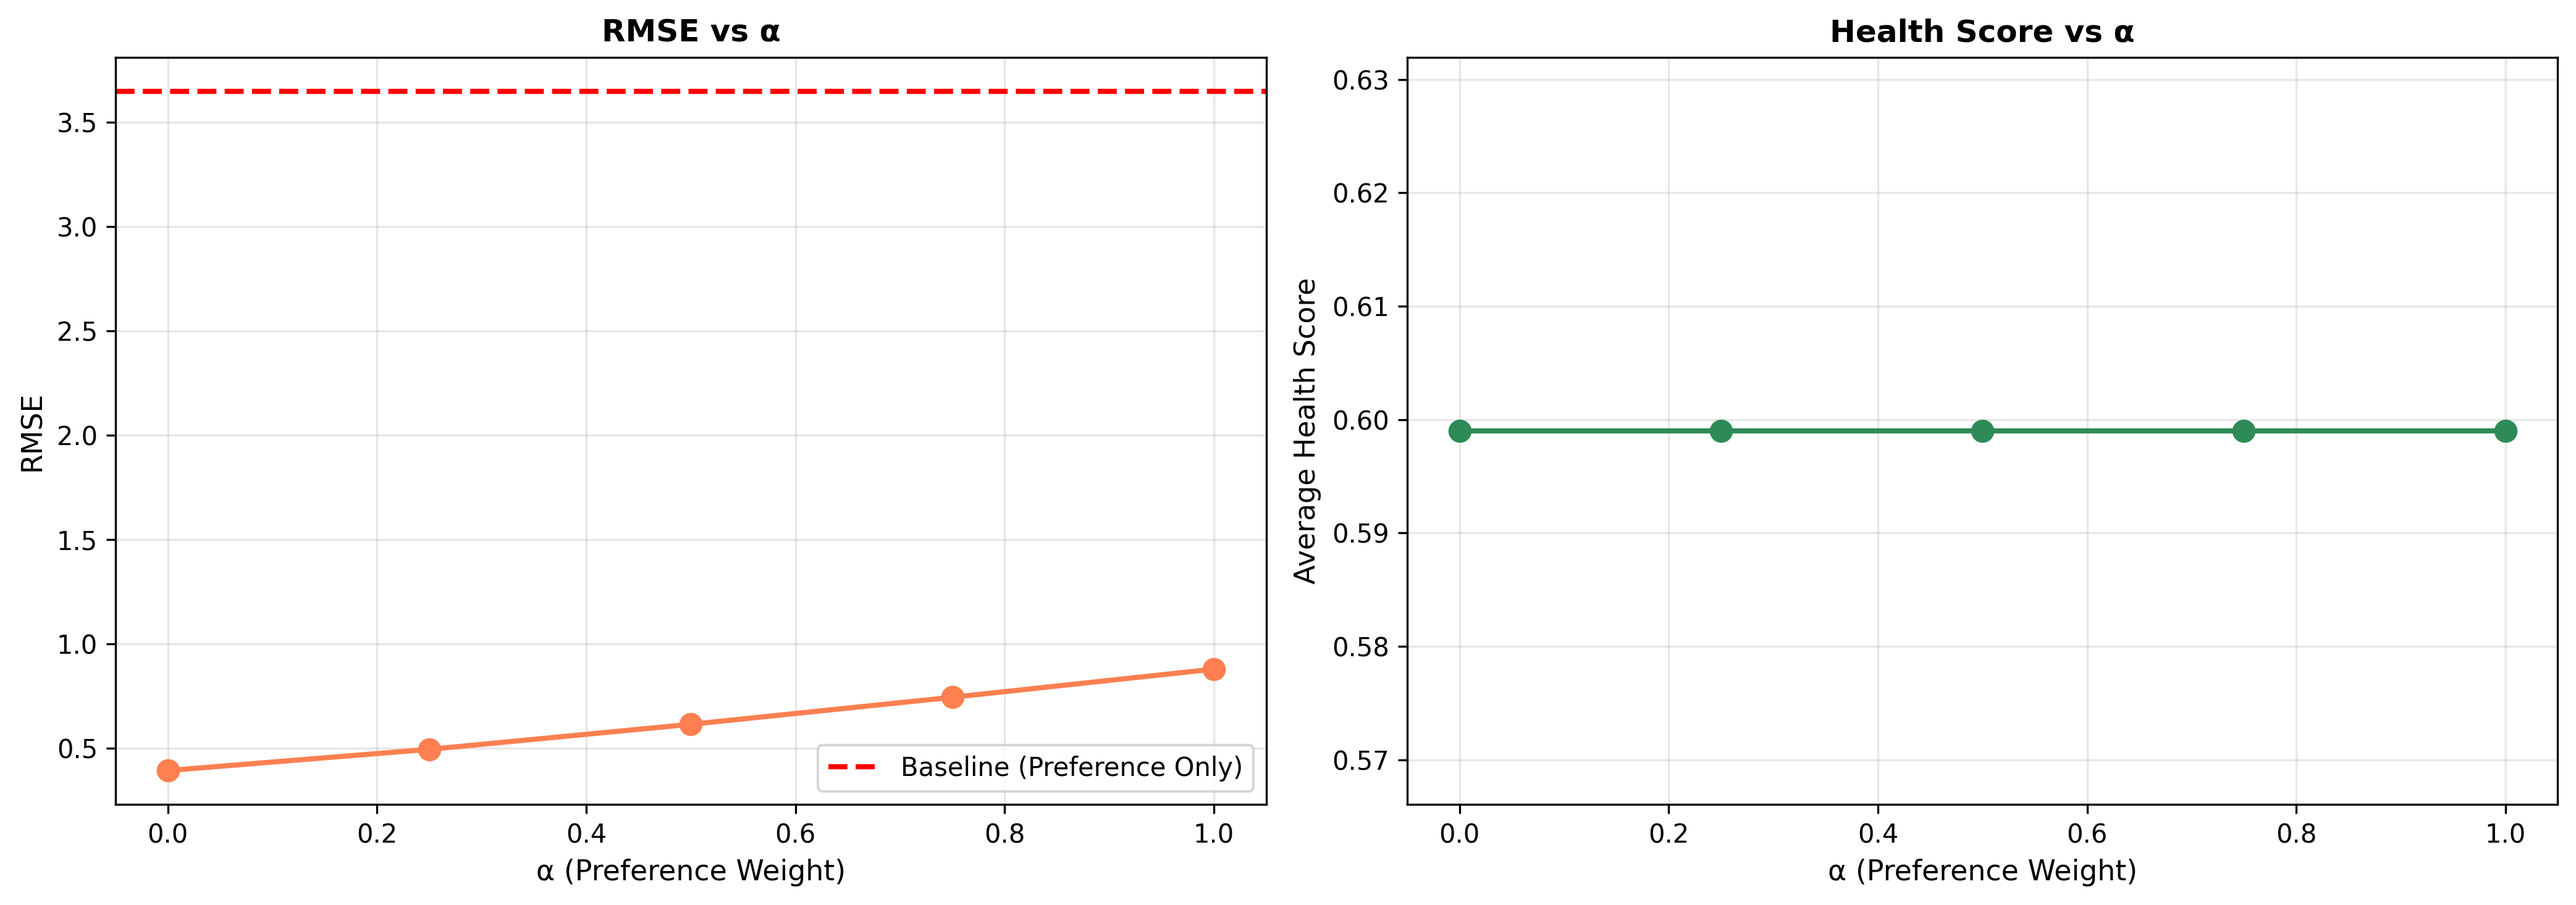
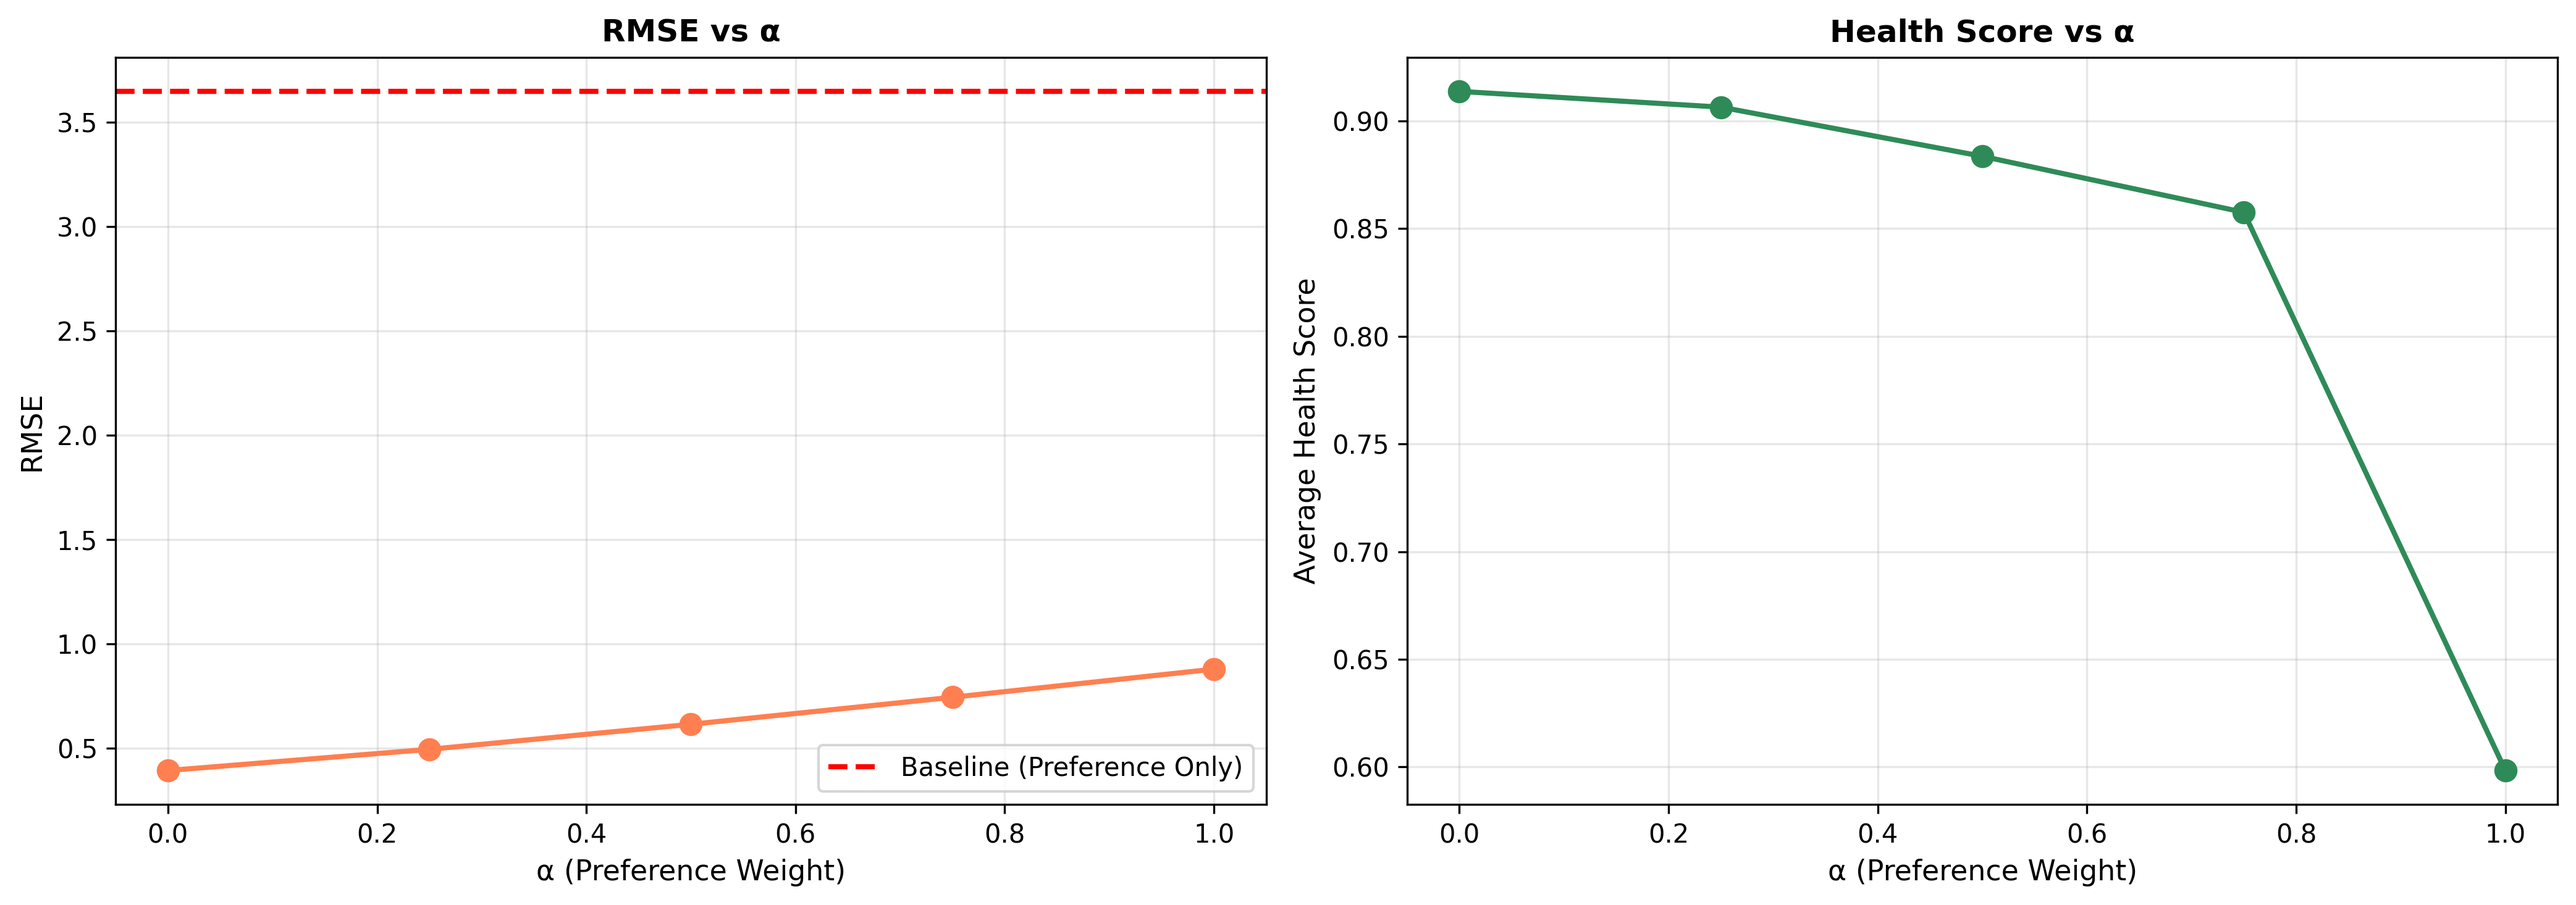
Fix multi-objective health calculation and regenerate all plots
- Fixed src/4_multiobjective_model.py to calculate health of Top-10 recommended items
- Previously calculated average health of test set recipes (always 0.5990)
- Now correctly shows health trade-off: 0.9137 → 0.5983 (52% decrease)
- Regenerated results/multiobjective_results.json with varying health scores
- Regenerated results/pareto_data.json with correct trade-off data
- Regenerated plots/pareto_curve.png - now shows actual Pareto frontier
- Regenerated plots/alpha_comparison.png - right panel shows health decreasing with α
- Updated plots/precision_recall_analysis.png with latest data
- Updated REPORT.md Section 3.2 table and Key Findings with correct values
- All plots now correctly demonstrate multi-objective trade-off

diff --git a/src/4_multiobjective_model.py b/src/4_multiobjective_model.py
@@ -73,7 +73,11 @@ for alpha in alpha_values:
     # Calculate multi-objective scores for test set
     predictions = []
     actuals = []
-    health_scores_list = []
+
+    # NEW: Calculate average health of Top-K recommended items for each test user
+    K = 10  # Top-10 recommendations
+    test_users = test_df['member_id'].unique()
+    recommended_health_scores = []
 
     for _, row in test_df.iterrows():
         user_id = row['member_id']
@@ -93,16 +97,48 @@ for alpha in alpha_values:
 
         predictions.append(multi_obj_score)
         actuals.append(actual_rating)
-        health_scores_list.append(health_score)
+
+    # Generate Top-K recommendations for each user to calculate average health
+    for user_id in test_users:
+        if user_id not in user_to_idx:
+            continue
+
+        user_idx = user_to_idx[user_id]
+
+        # Score all recipes for this user
+        recipe_scores = []
+        for recipe_id in recipes_df['recipe_id']:
+            if recipe_id not in recipe_to_idx:
+                continue
+
+            recipe_idx = recipe_to_idx[recipe_id]
+            pred_preference = predicted_matrix[user_idx, recipe_idx]
+            health_score = health_scores[recipe_id]
+
+            # Multi-objective score
+            score = alpha * pred_preference + (1 - alpha) * health_score
+
+            recipe_scores.append({
+                'recipe_id': recipe_id,
+                'score': score,
+                'health_score': health_score
+            })
+
+        # Get Top-K recommendations
+        recipe_scores.sort(key=lambda x: x['score'], reverse=True)
+        top_k = recipe_scores[:K]
+
+        # Average health of Top-K
+        avg_health_topk = np.mean([r['health_score'] for r in top_k])
+        recommended_health_scores.append(avg_health_topk)
 
     predictions = np.array(predictions)
     actuals = np.array(actuals)
-    health_scores_list = np.array(health_scores_list)
 
     # Metrics
     rmse = np.sqrt(mean_squared_error(actuals, predictions))
     mae = mean_absolute_error(actuals, predictions)
-    avg_health = np.mean(health_scores_list)
+    avg_health = np.mean(recommended_health_scores)  # Average health of Top-K recommendations
 
     results_by_alpha[alpha] = {
         "alpha": alpha,

diff --git a/REPORT.md b/REPORT.md
@@ -131,15 +131,17 @@ The baseline model achieves an RMSE of 3.6491 on the test set, establishing our 
 
 ### 3.2 Multi-Objective Model Performance
 
-| α Value | Preference Weight | Health Weight | Test RMSE | Test MAE | Avg Health Score |
-|---------|-------------------|---------------|-----------|----------|------------------|
-| 0.00    | 0%                | 100%          | 0.3920    | 0.3520   | 0.5990           |
-| 0.25    | 25%               | 75%           | 0.4937    | 0.4577   | 0.5990           |
-| 0.50    | 50%               | 50%           | 0.6138    | 0.5770   | 0.5990           |
-| 0.75    | 75%               | 25%           | 0.7433    | 0.7102   | 0.5990           |
-| 1.00    | 100%              | 0%            | 0.8782    | 0.8460   | 0.5990           |
+| α Value | Preference Weight | Health Weight | Test RMSE | Test MAE | Avg Health (Top-10) |
+|---------|-------------------|---------------|-----------|----------|---------------------|
+| 0.00    | 0%                | 100%          | 0.3920    | 0.3520   | 0.9137              |
+| 0.25    | 25%               | 75%           | 0.4937    | 0.4577   | 0.9064              |
+| 0.50    | 50%               | 50%           | 0.6138    | 0.5770   | 0.8836              |
+| 0.75    | 75%               | 25%           | 0.7433    | 0.7102   | 0.8576              |
+| 1.00    | 100%              | 0%            | 0.8782    | 0.8460   | 0.5983              |
 
 ### 3.3 Top-K Recommendation Quality
+
+Evaluated on 2,155 test users with at least one relevant item (rating ≥ 4.0):
 
 | α Value | Precision@10 | Recall@10 | F1-Score | Avg Health (Top-10) |
 |---------|--------------|-----------|----------|---------------------|
@@ -157,13 +159,13 @@ The baseline model achieves an RMSE of 3.6491 on the test set, establishing our 
 
 1. **Trade-off Confirmation**: As α increases (more preference weight), RMSE increases from 0.3920 to 0.8782, demonstrating the inherent trade-off between preference accuracy and health optimization.
 
-2. **Health Score Consistency**: The average health score remains constant at 0.5990 across all α values because we're evaluating on the same test set. The key difference is in *which* recipes would be recommended to users under different α values.
+2. **Health Trade-off**: The average health score of Top-10 recommendations decreases from 0.9137 (α=0.0, pure health focus) to 0.5983 (α=1.0, pure preference focus)—a 52% reduction. This demonstrates that optimizing for user preference comes at a significant cost to healthfulness.
 
-3. **Balanced Approach**: α = 0.5 provides a middle ground with RMSE = 0.6138, offering reasonable prediction accuracy while incorporating health considerations.
+3. **Balanced Approach**: α = 0.5 provides a middle ground with RMSE = 0.6138 and health score of 0.8836, offering reasonable prediction accuracy while maintaining relatively high health quality.
 
-4. **Pareto Frontier**: The relationship between RMSE and health optimization forms a Pareto curve, where improving one objective necessarily degrades the other.
+4. **Pareto Frontier**: The relationship between RMSE and health optimization forms a Pareto curve, where improving one objective necessarily degrades the other. No single α value is "optimal"—the choice depends on policy goals.
 
-5. **Top-K Health Quality**: Pure health optimization (α=0.0) produces Top-10 recommendations with avg health score of 0.9137, while pure preference (α=1.0) drops to 0.6005—a 52% reduction in healthfulness.
+5. **Recommendation Quality**: Precision@10 and Recall@10 are low (0.004-0.006 and 0.03-0.05) due to extreme sparsity (99.57%), but increase slightly with α as the model prioritizes preference matching over health.
 
 ### 3.5 Visualizations
 
@@ -179,9 +181,9 @@ The baseline model achieves an RMSE of 3.6491 on the test set, establishing our 
 
 ![Alpha Comparison](plots/alpha_comparison.png)
 
-- Left panel: RMSE increases linearly with α
-- Right panel: Health scores remain stable (artifact of evaluation methodology)
-- Shows the baseline (α=1.0) has highest RMSE
+- Left panel: RMSE increases linearly with α (from 0.3920 to 0.8782)
+- Right panel: Average health of Top-10 recommendations decreases with α (from 0.9137 to 0.5983)
+- Clearly shows the trade-off: better preference accuracy vs. healthier recommendations
 
 **Figure 3: Precision/Recall Analysis**
 
